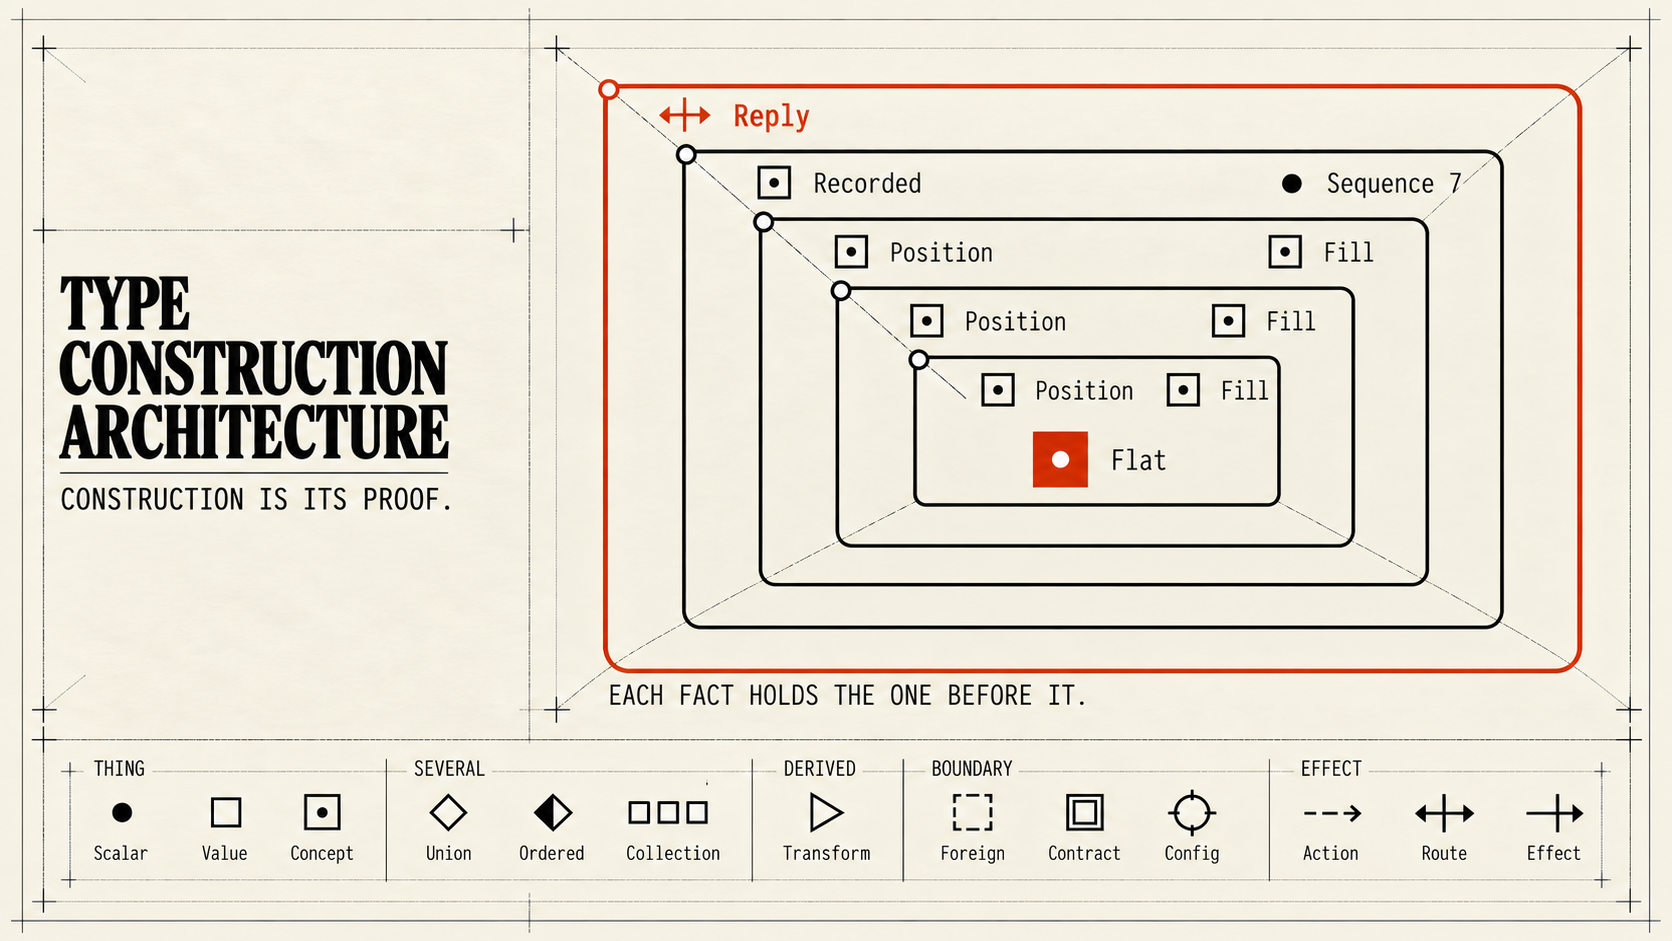
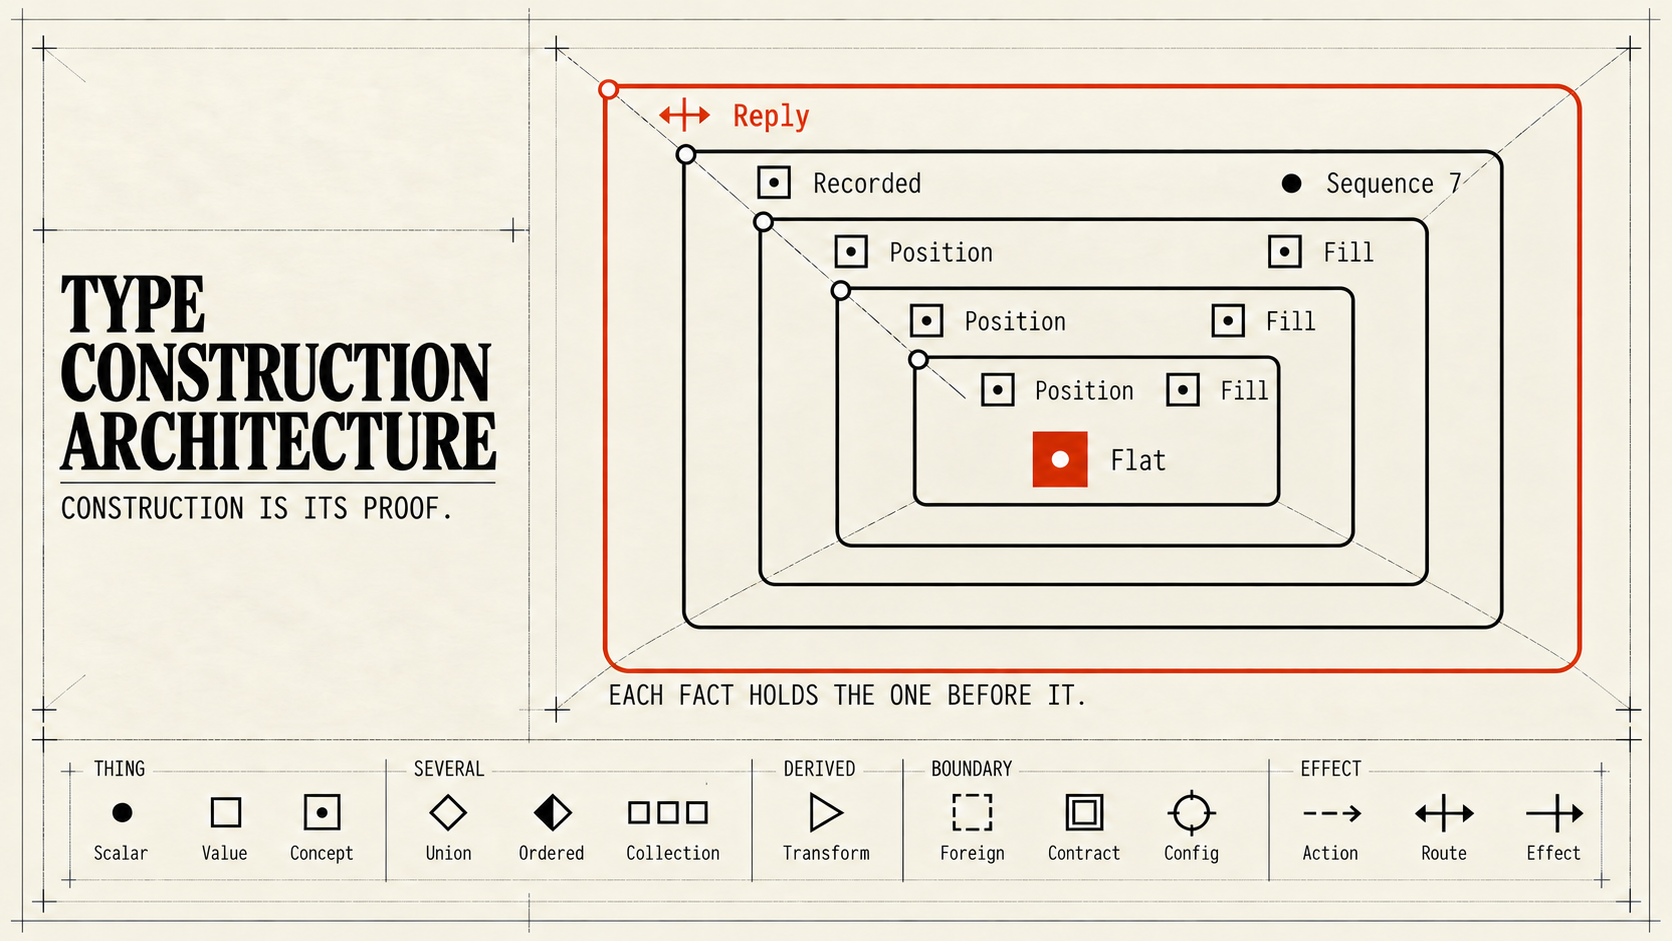
plan: record the TCA agent as a worklist
Record the TCA agent as a worklist: a frozen domain record, proposals
only for open states, and a System One judge that cannot turn a
rejection into the next step.

Refresh the hero to the nested-fact diagram of construction.

diff --git a/plan/tca-agent.md b/plan/tca-agent.md
@@ -1,0 +1,32 @@
+# TCA agent
+
+## Why this build fails
+
+Usually agents fail at this kind of build because their context is a plan of the run, so the types they write are the stages of that run. We made the model keep a complete list of the domain's nouns and rethink that list before every write. That succeeded because the only thing in front of it was the domain, and a gap came back as a missing noun instead of a next step.
+
+## What a System One model is for
+
+A System One model is valuable because it returns a calibrated probability over an answer you already declared, so software can act or stop without the model writing what happens next. In a dev agent that is a judge on a proposal the agent already made: it can reject a type that is a stage of a run, and it cannot turn the rejection into the next step.
+
+## The worklist
+
+The machine is a worklist. At go, the articulation is frozen as a domain record: the things, the states of those things, and the crossings. Code then repeats a round. An LLM proposes types only for states that are still uninhabited, and it may name only types already admitted. Code places each proposal by its fields and rejects anything it cannot place or that refers forward. Jev rules on what a parser will bless. Admitted types are rendered into files by code. A round that admits nothing halts with the states still open. Done is every state inhabited and every crossing admitted.
+
+## Flow
+
+```mermaid
+flowchart TD
+  A[Articulation] --> B[Freeze the domain record]
+  B --> C{Any state still uninhabited?}
+  C -->|no| Z[Done]
+  C -->|yes| D[Propose inhabitants for the open states]
+  D --> E[Code places each by its fields]
+  E -->|cannot place, or refers forward| D
+  E --> F[Jev: stage, own thing, claimed state, in the articulation]
+  F -->|reject| D
+  F -->|low confidence| H[Halt with the open states]
+  F -->|admit| I[Commit and render the file]
+  I --> J{This round admitted nothing?}
+  J -->|yes| H
+  J -->|no| C
+```
